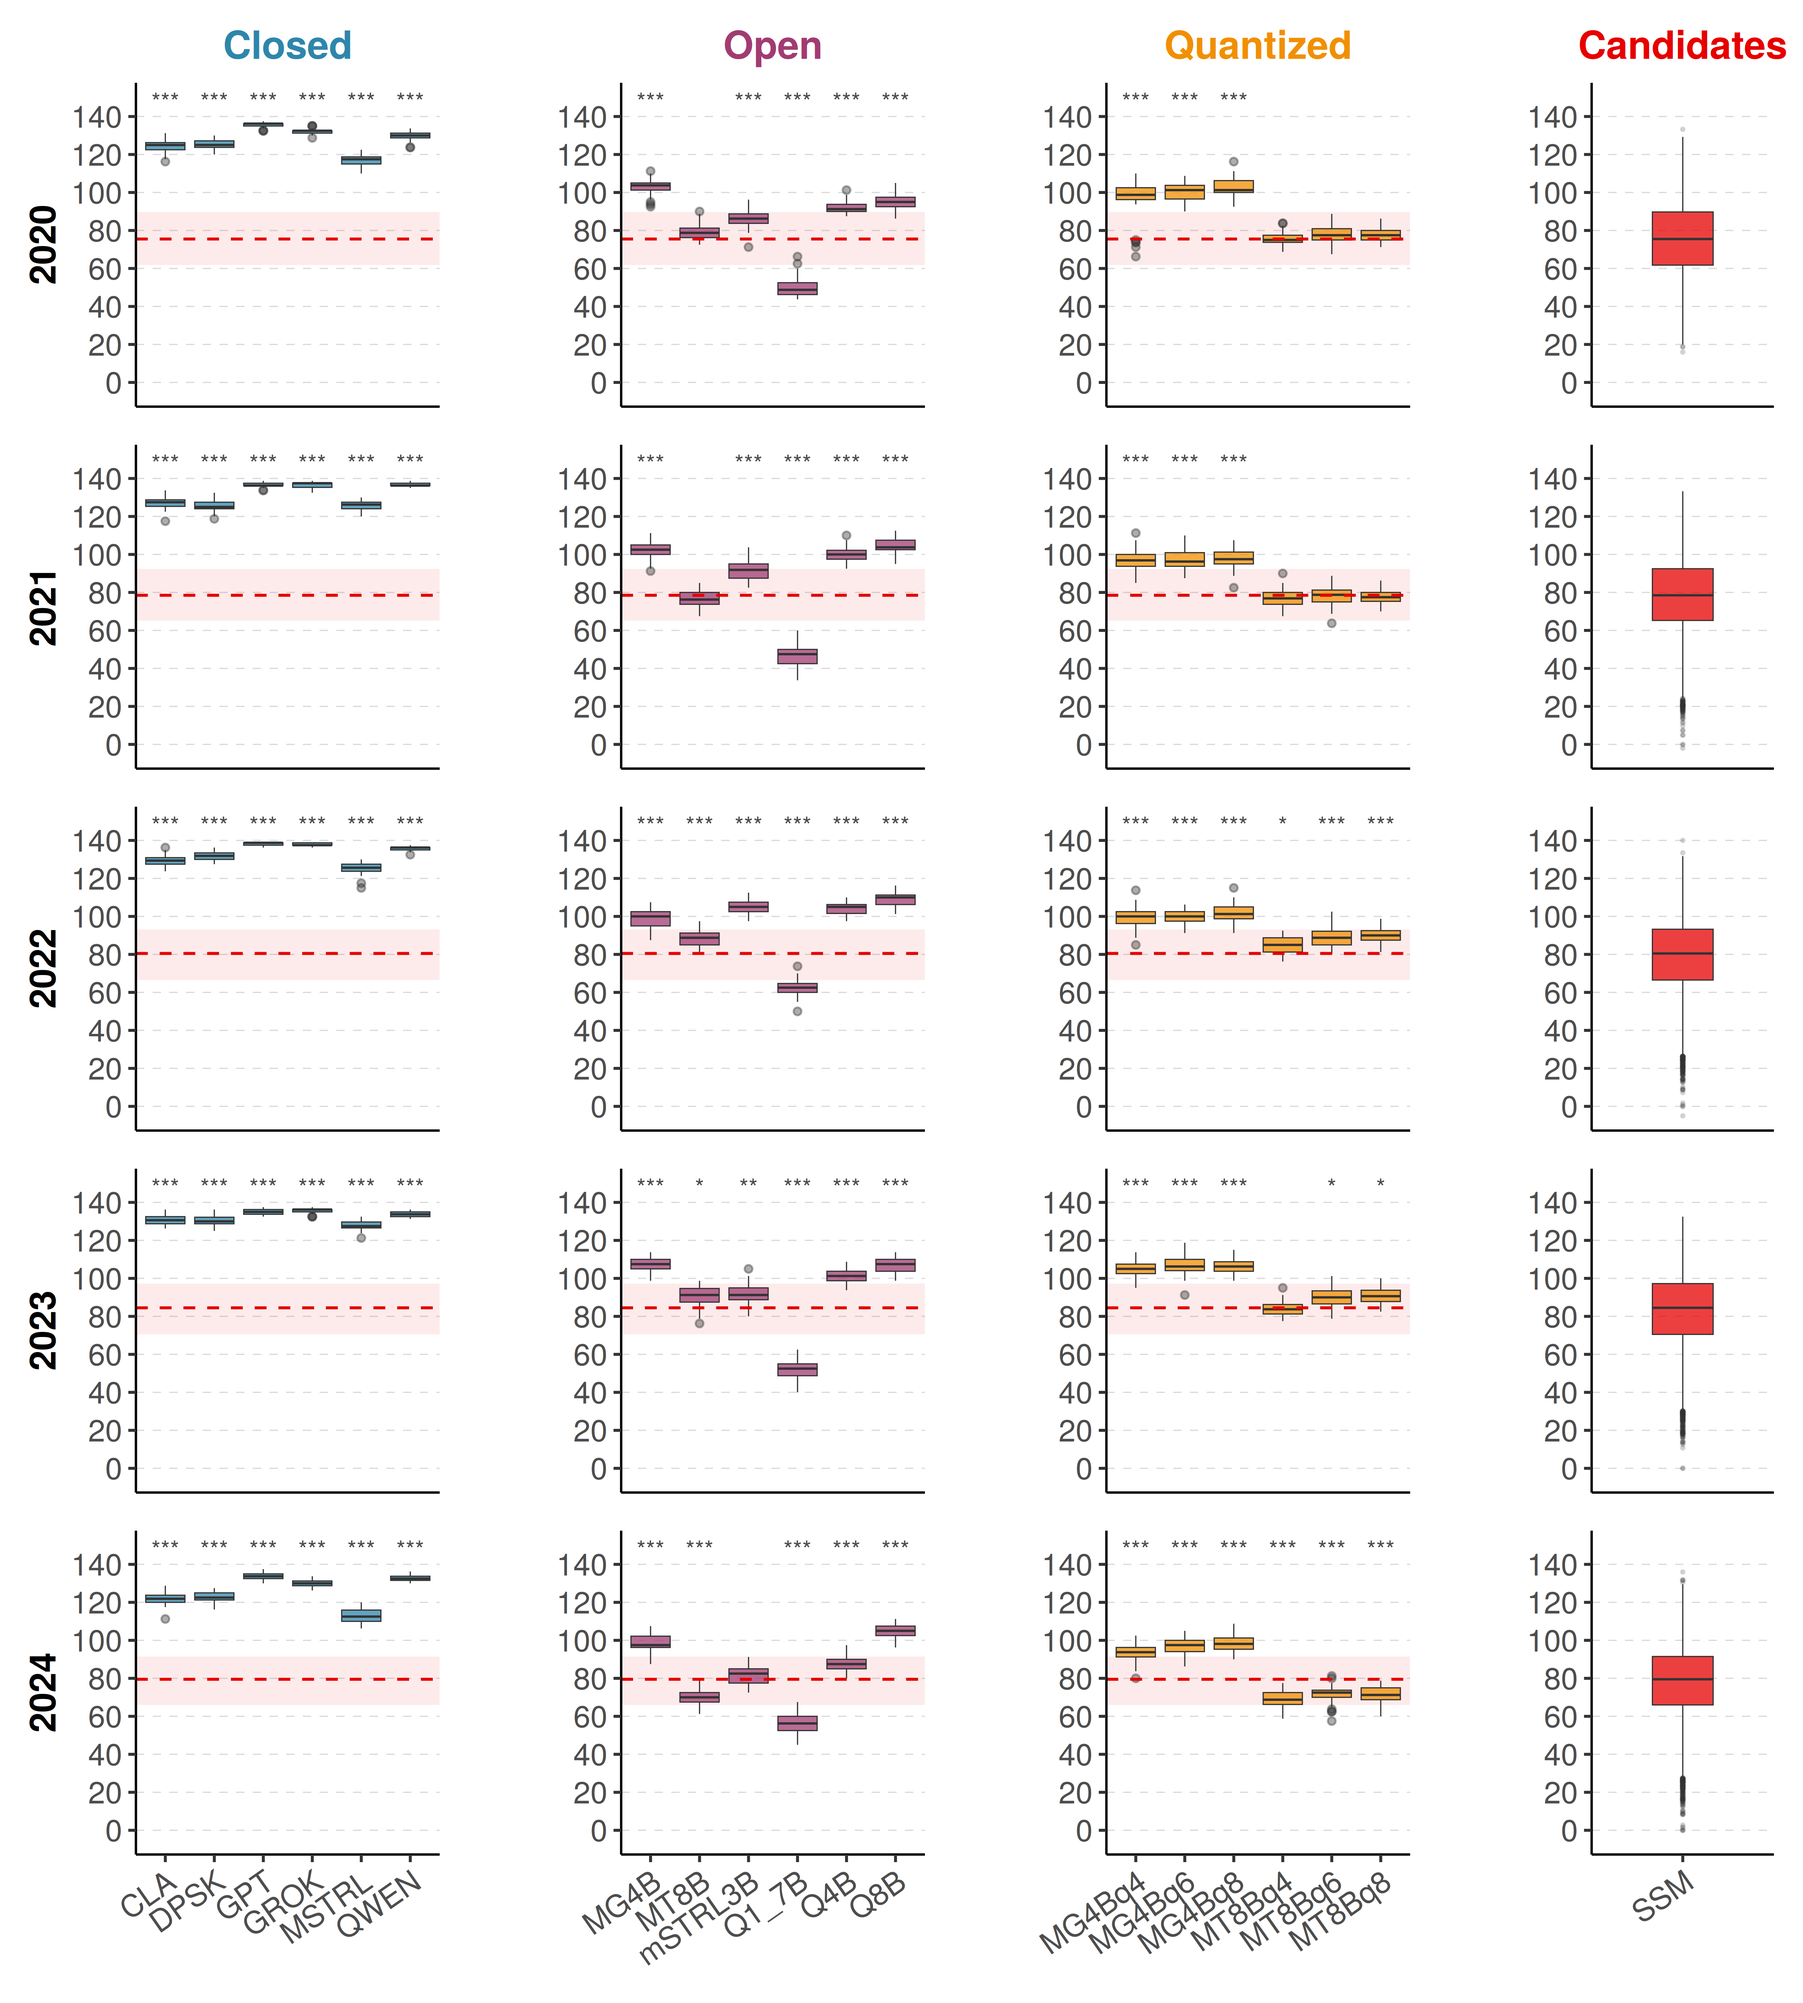
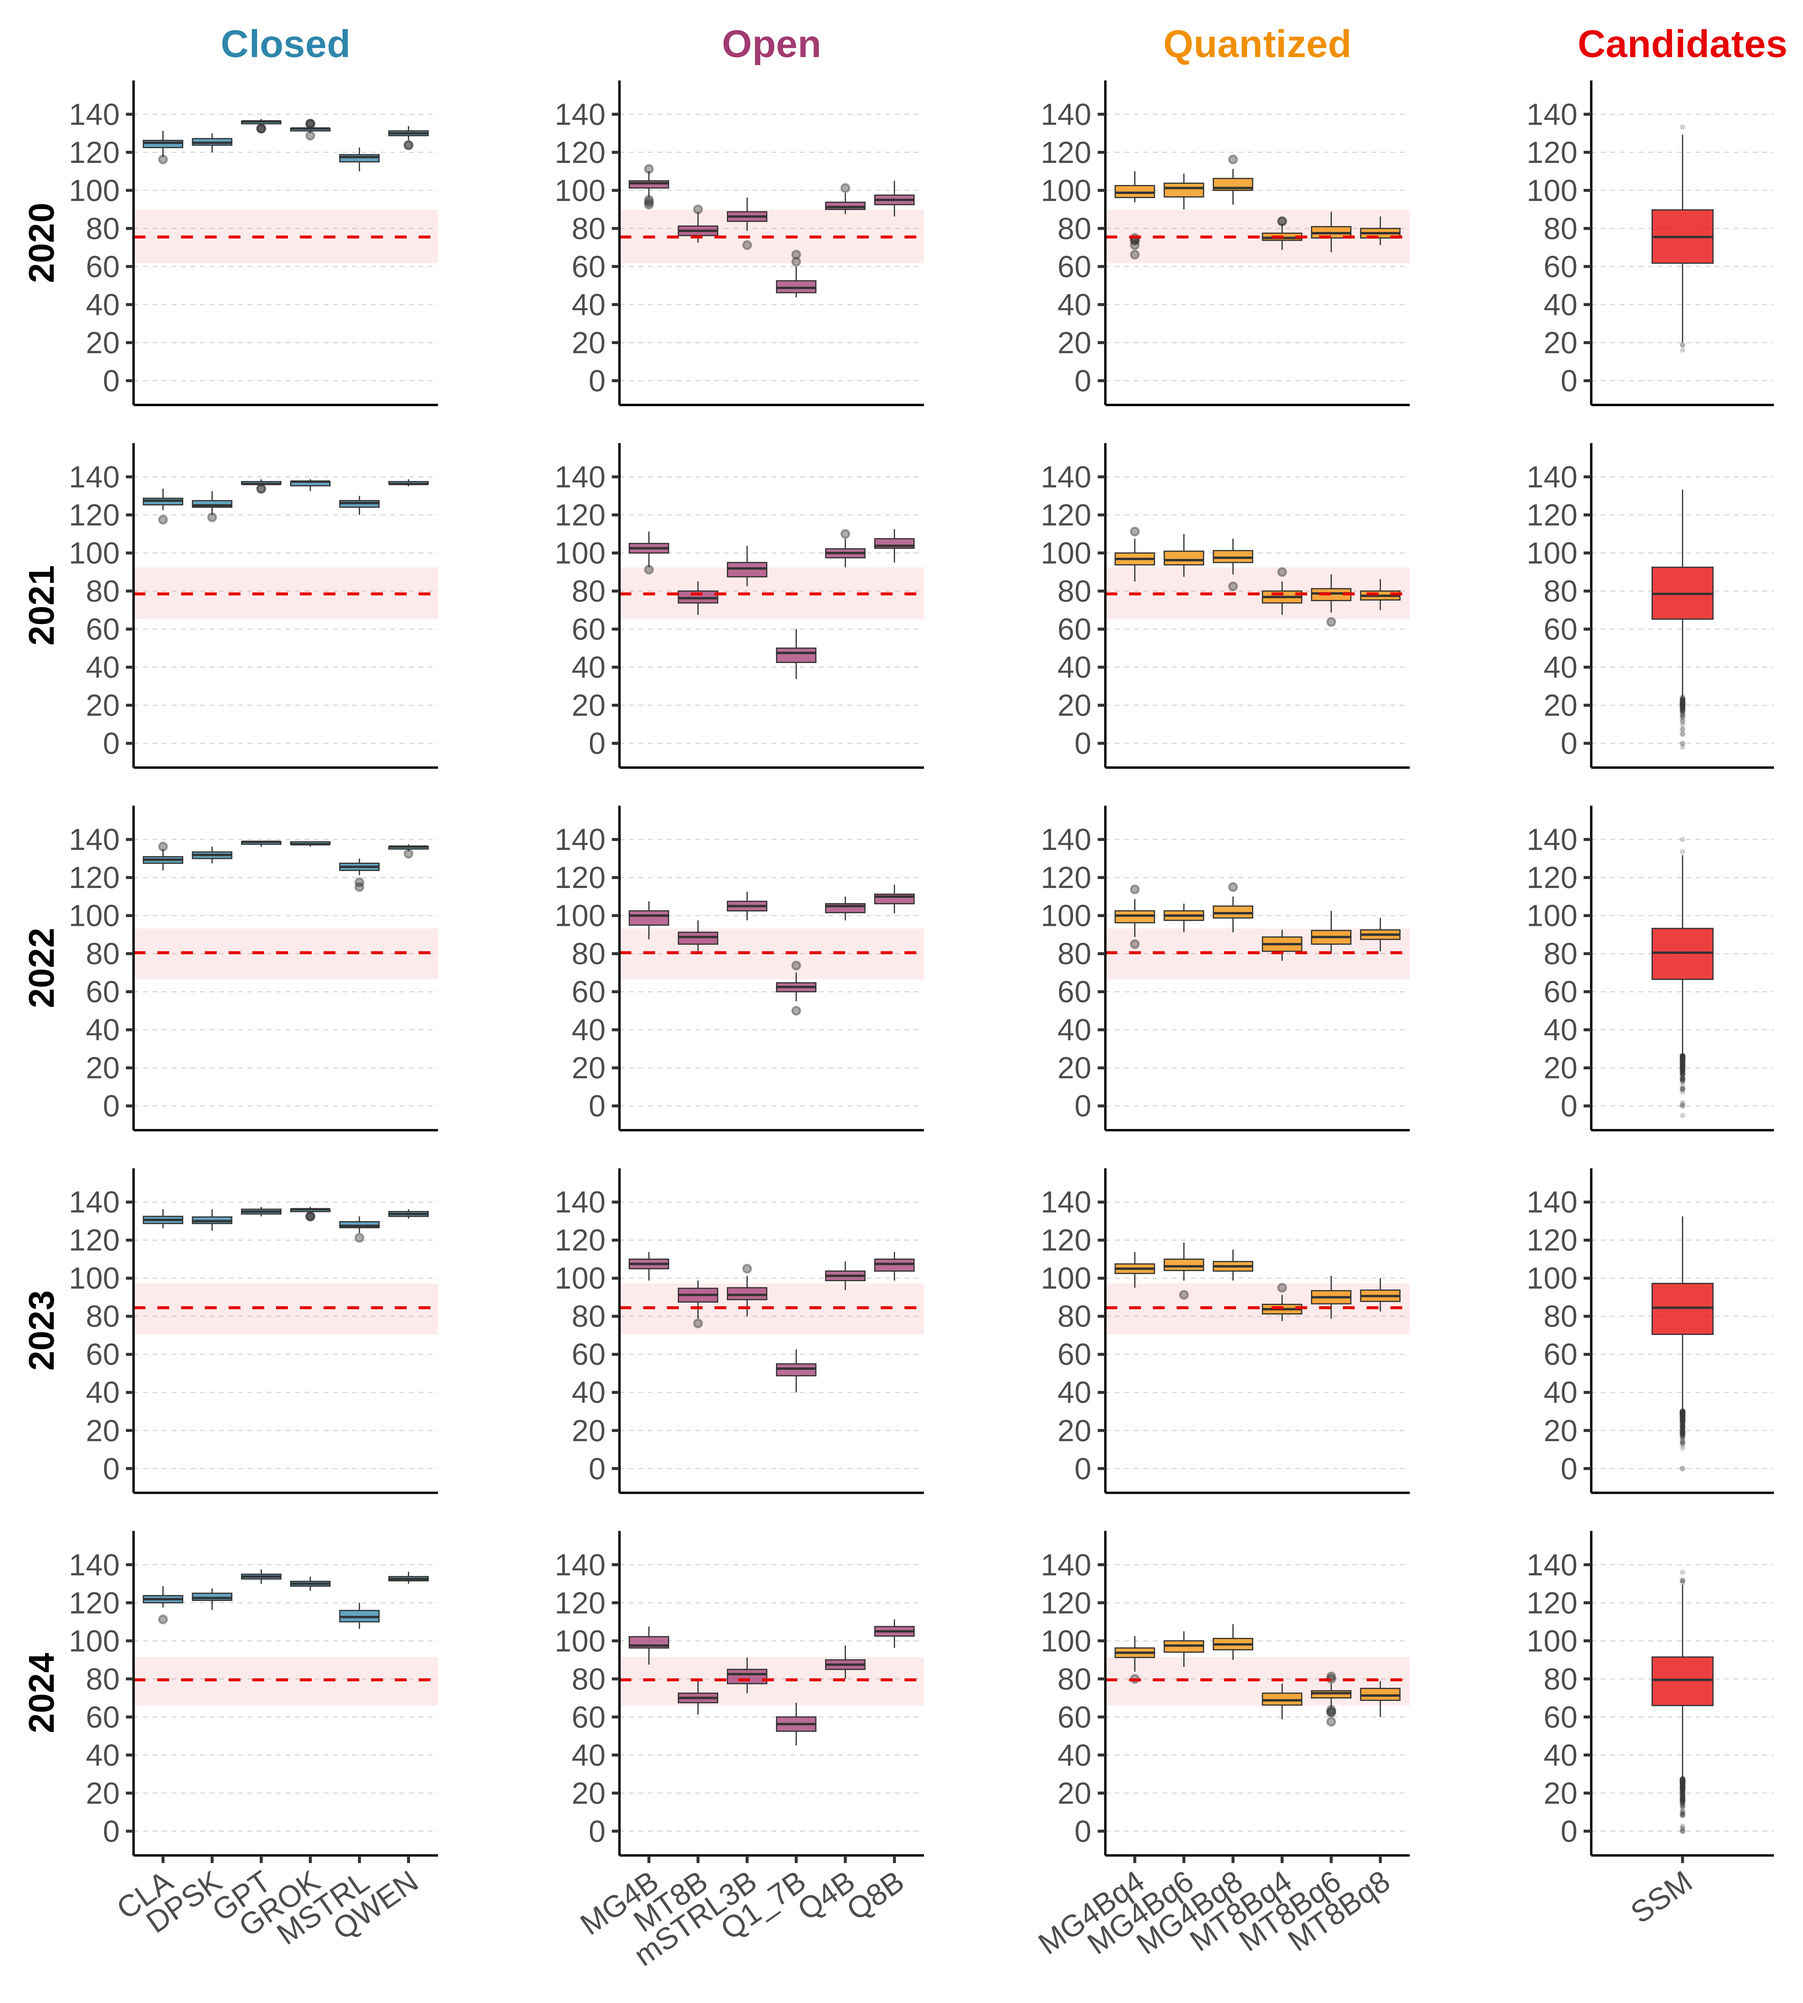
Candidate Analysis update file and results

diff --git a/Candidate_analysis/README.md b/Candidate_analysis/README.md
@@ -27,8 +27,7 @@ sources (2020: specializzazionemedicina.com; 2023: blog.edises.it).
 ¹ The archived 2022 ranking lacks positions 401–500 (100 candidates, all with total scores between
 117.0 and 118.5, i.e. well above the third quartile). Including them at any possible value changes the
 2022 median from 80.5 to 80.75 and the third quartile from 93.25 to 93.5, leaves the first quartile
-unchanged, changes model percentile ranks by at most 0.6 points and changes one significance level in
-Table 5 (Meditron3-8B, 2022: p < 0.001 → p < 0.01).
+unchanged and changes model percentile ranks by at most 0.6 points.
 
 ## Score used
 
@@ -49,11 +48,10 @@ Candidate_analysis/
 │   ├── build_llm_runs_long.py           builds data/llm_runs_long.csv from the Consistency files
 │   ├── extract_rankings.py              builds data/candidate_scores_2020_2024.csv from the original
 │   │                                    rankings (requires the original files, not distributed)
-│   └── candidate_analysis.R             descriptives, percentiles, Mann-Whitney tests, tables, figures
+│   └── candidate_analysis.R             descriptives, percentile ranks with item-bootstrap CIs, tables, figures
 └── outputs/
     ├── candidate_descriptives.csv/.xlsx          Supplementary Table S8
-    ├── model_percentiles.csv                     Supplementary Table S9
-    ├── mann_whitney_LLM_vs_candidates.csv/.xlsx  Table 5
+    ├── model_percentiles.csv/.xlsx               Table 5 and Supplementary Table S9
     ├── table_descriptive.csv                     Tables 2–3
     └── Figure1–Figure4 (.png)
 ```
@@ -66,12 +64,14 @@ Candidate_analysis/
   in any year). Two independent extractions of the PDF rankings, with PyMuPDF and with pdfplumber, produced
   identical scores for all candidates.
 - **Descriptive statistics.** Quantiles use linear interpolation (R default, type 7).
-- **Percentile rank of a model.** Percentage of candidates whose test score is lower than or equal to
-  the model's median score over its 50 runs in the same year.
-- **Mann-Whitney U tests (Table 5).** For each year and model, the 50 run scores of the model are
-  compared with the test scores of all candidates of that year (two-sided, normal approximation with
-  continuity correction, `wilcox.test(exact = FALSE)`); p-values are Holm-adjusted across the 18 models
-  within each year.
+- **Percentile rank of a model (Table 5).** Percentage of candidates whose test score is lower than or
+  equal to the model's mean score over its 50 runs in the same year. Because the 50 runs share the same
+  140 questions, the 95% confidence interval is obtained by resampling the questions of that year with
+  replacement (percentile bootstrap, 4,000 resamples, seed 2026): in each resample the model's mean score
+  is recomputed from its accuracy on each question over the 50 runs (`../Analysis/statistics_output/llm_item_accuracy.csv`;
+  expected item score = 1.25 × accuracy − 0.25) and located in the candidate distribution. The same
+  resamples give the 95% CI of the mean score (Supplementary Table S9). The comparison is descriptive;
+  no hypothesis tests are performed.
 
 ## How to reproduce
 
@@ -79,7 +79,7 @@ From this folder:
 
 ```
 python scripts/build_llm_runs_long.py       # rebuilds data/llm_runs_long.csv from ../Results
-Rscript scripts/candidate_analysis.R        # uses data/ only; writes outputs/
+Rscript scripts/candidate_analysis.R        # uses data/ and ../Analysis/statistics_output/llm_item_accuracy.csv; writes outputs/
 python scripts/extract_rankings.py          # only with the original rankings in original_rankings/
 ```
 
